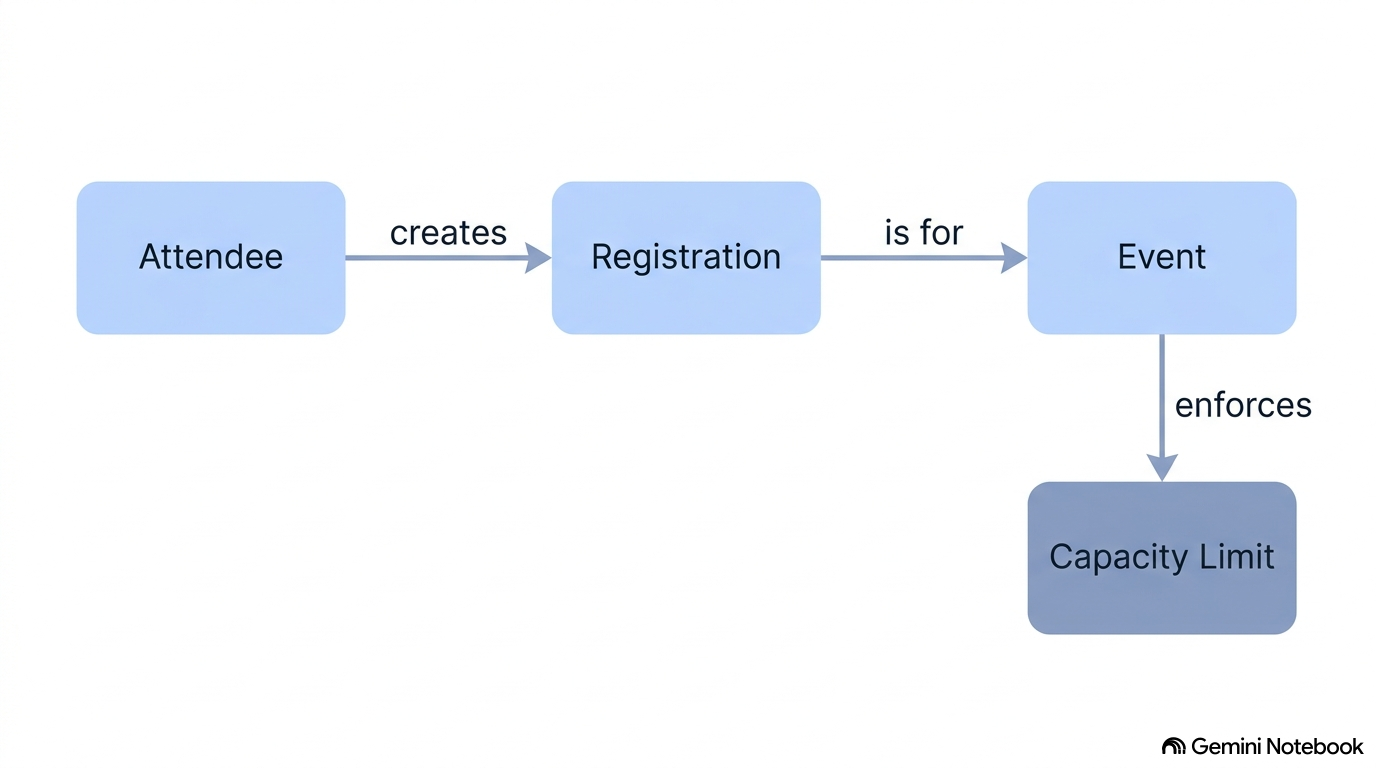
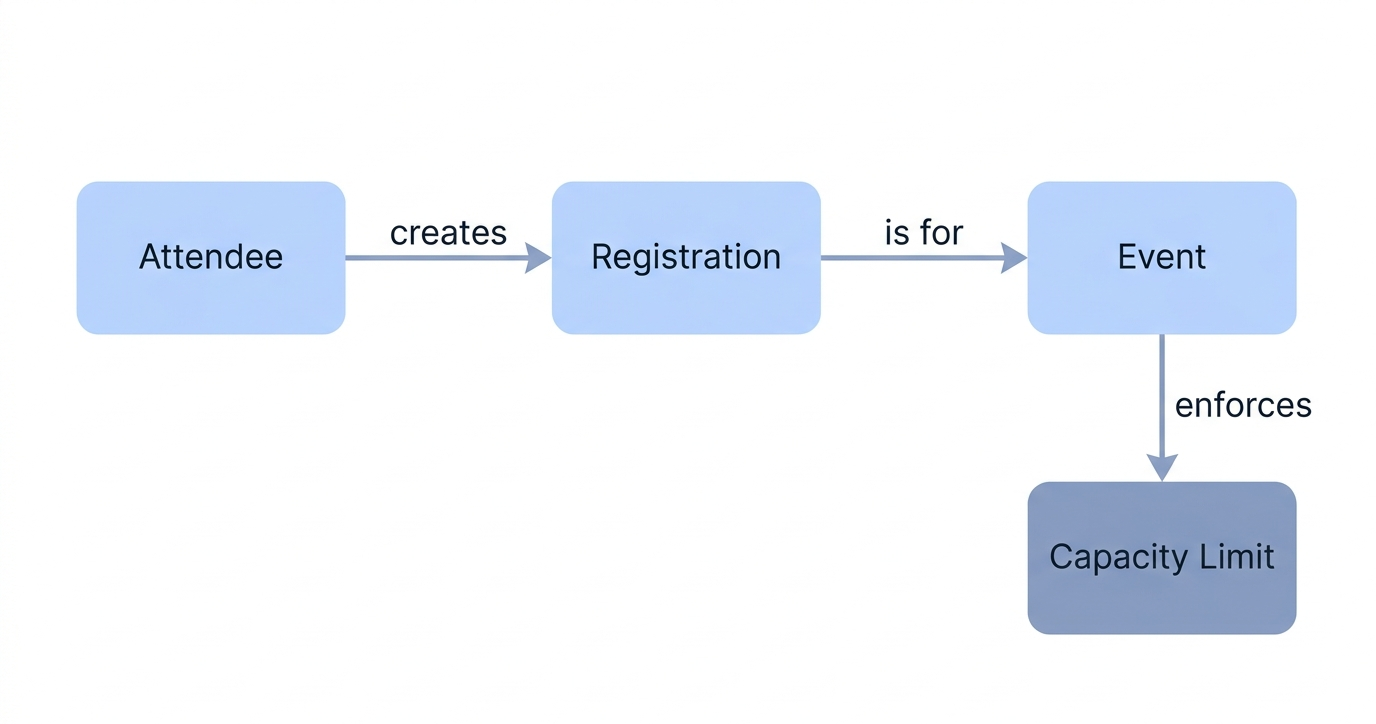
Complete Checkpoint 3: Web app, REST API, persistent volume, and pytest

diff --git a/app.py b/app.py
@@ -1,0 +1,174 @@
+from fastapi import FastAPI, Depends, HTTPException, status, Request, Form
+from fastapi.responses import HTMLResponse, RedirectResponse
+from sqlalchemy import create_engine, Column, Integer, String, ForeignKey
+from sqlalchemy.ext.declarative import declarative_base
+from sqlalchemy.orm import sessionmaker, relationship, Session
+from pydantic import BaseModel
+import os
+
+DB_DIR = "./data"
+os.makedirs(DB_DIR, exist_ok=True)
+DATABASE_URL = "sqlite:///./data/events.db"
+
+engine = create_engine(DATABASE_URL, connect_args={"check_same_thread": False})
+SessionLocal = sessionmaker(autocommit=False, autoflush=False, bind=engine)
+Base = declarative_base()
+
+class EventDB(Base):
+    __tablename__ = "events"
+    id = Column(Integer, primary_key=True, index=True)
+    name = Column(String, nullable=False)
+    capacity = Column(Integer, nullable=False)
+    registrations = relationship("RegistrationDB", back_populates="event", cascade="all, delete-orphan")
+
+class RegistrationDB(Base):
+    __tablename__ = "registrations"
+    id = Column(Integer, primary_key=True, index=True)
+    event_id = Column(Integer, ForeignKey("events.id"), nullable=False)
+    attendee = Column(String, nullable=False)
+    event = relationship("EventDB", back_populates="registrations")
+
+Base.metadata.create_all(bind=engine)
+
+app = FastAPI(
+    title="Event Registration Web API & UI",
+    version="3.0.0",
+    description="Checkpoint 3: Web application with forms and resource-oriented REST API."
+)
+
+def get_db():
+    db = SessionLocal()
+    try:
+        yield db
+    finally:
+        db.close()
+
+class EventCreate(BaseModel):
+    name: str
+    capacity: int
+
+class EventResponse(EventCreate):
+    id: int
+    class Config:
+        from_attributes = True
+
+class RegistrationCreate(BaseModel):
+    event_id: int
+    attendee: str
+
+class RegistrationResponse(RegistrationCreate):
+    id: int
+    class Config:
+        from_attributes = True
+
+@app.post("/api/events", response_model=EventResponse, status_code=status.HTTP_201_CREATED)
+def api_create_event(event: EventCreate, db: Session = Depends(get_db)):
+    db_event = EventDB(name=event.name, capacity=event.capacity)
+    db.add(db_event)
+    db.commit()
+    db.refresh(db_event)
+    return db_event
+
+@app.get("/api/events", response_model=list[EventResponse])
+def api_list_events(db: Session = Depends(get_db)):
+    return db.query(EventDB).all()
+
+@app.post("/api/registrations", response_model=RegistrationResponse, status_code=status.HTTP_201_CREATED)
+def api_create_registration(reg: RegistrationCreate, db: Session = Depends(get_db)):
+    event = db.query(EventDB).filter(EventDB.id == reg.event_id).first()
+    if not event:
+        raise HTTPException(status_code=404, detail="Event not found")
+    
+    current_regs = db.query(RegistrationDB).filter(RegistrationDB.event_id == reg.event_id).count()
+    if current_regs >= event.capacity:
+        raise HTTPException(status_code=400, detail="Error: Cannot register, capacity limit reached.")
+
+    db_reg = RegistrationDB(event_id=reg.event_id, attendee=reg.attendee)
+    db.add(db_reg)
+    db.commit()
+    db.refresh(db_reg)
+    return db_reg
+
+@app.delete("/api/registrations/{reg_id}", status_code=status.HTTP_204_NO_CONTENT)
+def api_cancel_registration(reg_id: int, db: Session = Depends(get_db)):
+    db_reg = db.query(RegistrationDB).filter(RegistrationDB.id == reg_id).first()
+    if not db_reg:
+        raise HTTPException(status_code=404, detail="Registration not found")
+    db.delete(db_reg)
+    db.commit()
+    return None
+
+@app.get("/", response_class=HTMLResponse)
+def web_index(request: Request, db: Session = Depends(get_db)):
+    events = db.query(EventDB).all()
+    registrations = db.query(RegistrationDB).all()
+    
+    html = f"""
+    <html>
+        <head>
+            <title>Event Registration App</title>
+            <style>
+                body {{ font-family: Arial, sans-serif; margin: 40px; background: #f9f9fb; }}
+                h1, h2 {{ color: #222; }}
+                table {{ width: 100%; border-collapse: collapse; margin-bottom: 20px; background: #fff; }}
+                th, td {{ padding: 10px; border: 1px solid #ccc; text-align: left; }}
+                th {{ background-color: #007bff; color: white; }}
+                form {{ background: #fff; padding: 20px; border: 1px solid #ccc; margin-bottom: 20px; }}
+                input, button {{ padding: 8px; margin: 5px 0; display: block; width: 100%; box-sizing: border-box; }}
+                button {{ background-color: #28a745; color: white; border: none; cursor: pointer; }}
+                button:hover {{ background-color: #218838; }}
+                .row {{ display: flex; gap: 20px; }}
+                .col {{ flex: 1; }}
+            </style>
+        </head>
+        <body>
+            <h1>Event Registration Dashboard (Checkpoint 3)</h1>
+            <p>Manage events and registrations via web forms or explore the <a href="/docs" target="_blank">OpenAPI REST API Docs</a>.</p>
+            <div class="row">
+                <div class="col">
+                    <h2>Add Event</h2>
+                    <form action="/web/events" method="post">
+                        <label>Name:</label><input type="text" name="name" required>
+                        <label>Capacity:</label><input type="number" name="capacity" required>
+                        <button type="submit">Create Event</button>
+                    </form>
+                    <h2>Events List</h2>
+                    <table>
+                        <tr><th>ID</th><th>Name</th><th>Capacity</th></tr>
+                        {''.join([f"<tr><td>{e.id}</td><td>{e.name}</td><td>{e.capacity}</td></tr>" for e in events])}
+                    </table>
+                </div>
+                <div class="col">
+                    <h2>Register Attendee</h2>
+                    <form action="/web/registrations" method="post">
+                        <label>Event ID:</label><input type="number" name="event_id" required>
+                        <label>Attendee Name:</label><input type="text" name="attendee" required>
+                        <button type="submit">Register</button>
+                    </form>
+                    <h2>Registrations List</h2>
+                    <table>
+                        <tr><th>Reg ID</th><th>Event ID</th><th>Attendee</th></tr>
+                        {''.join([f"<tr><td>{r.id}</td><td>{r.event_id}</td><td>{r.attendee}</td></tr>" for r in registrations])}
+                    </table>
+                </div>
+            </div>
+        </body>
+    </html>
+    """
+    return HTMLResponse(content=html)
+
+@app.post("/web/events")
+def web_create_event(name: str = Form(...), capacity: int = Form(...), db: Session = Depends(get_db)):
+    db.add(EventDB(name=name, capacity=capacity))
+    db.commit()
+    return RedirectResponse(url="/", status_code=status.HTTP_303_SEE_OTHER)
+
+@app.post("/web/registrations")
+def web_create_registration(event_id: int = Form(...), attendee: str = Form(...), db: Session = Depends(get_db)):
+    event = db.query(EventDB).filter(EventDB.id == event_id).first()
+    if event:
+        current_regs = db.query(RegistrationDB).filter(RegistrationDB.event_id == event_id).count()
+        if current_regs < event.capacity:
+            db.add(RegistrationDB(event_id=event_id, attendee=attendee))
+            db.commit()
+    return RedirectResponse(url="/", status_code=status.HTTP_303_SEE_OTHER)

diff --git a/test_events.py b/test_events.py
@@ -1,0 +1,22 @@
+import pytest
+from fastapi.testclient import TestClient
+from app import app, Base, engine
+
+client = TestClient(app)
+
+def setup_function():
+    Base.metadata.drop_all(bind=engine)
+    Base.metadata.create_all(bind=engine)
+
+def test_prevent_overbooking():
+    response = client.post("/api/events", json={"name": "DevOps Workshop", "capacity": 1})
+    assert response.status_code == 201
+    event_id = response.json()["id"]
+
+    res1 = client.post("/api/registrations", json={"event_id": event_id, "attendee": "Alice"})
+    assert res1.status_code == 201
+    assert "id" in res1.json()
+
+    res2 = client.post("/api/registrations", json={"event_id": event_id, "attendee": "Bob"})
+    assert res2.status_code == 400
+    assert "Error" in res2.json()["detail"]

diff --git a/testing-strategy.md b/testing-strategy.md
@@ -1,25 +1,13 @@
-Testing Strategy & Delivery Path
+# Testing Strategy & Delivery Path - Checkpoint 3
 
-Overview
+## Overview
+This repository contains the web application and REST API implementation for **Project 3: Event Registration** with persistent Docker volumes and OpenAPI documentation.
 
-This repository contains the implementation for Project 3: Event Registration CLI as requested in the course.
+## Web Address & Documentation
+- **Web Interface (Forms)**: `http://localhost:8000`
+- **OpenAPI / Swagger UI Documentation**: `http://localhost:8000/docs`
 
-Local Execution & Automated Testing
-
-Install requirements:
-pip install -r requirements.txt
-
-Execute Automated Unit Tests (Capacity Limit constraint check):
-pytest test_events.py
-
-Docker Execution
-
-Build Container Image:
-docker build -t event-app .
-
-Run Container CLI:
-docker run --rm event-app event add --name "DevOps Class" --capacity 10
-docker run --rm event-app event list
-
-Run via Docker Compose:
-docker compose up
+## Exact Commands from a Fresh Checkout
+1. **Start Application (with Docker Compose & Persistent Volumes):**
+   ```bash
+   docker compose up --build -d
